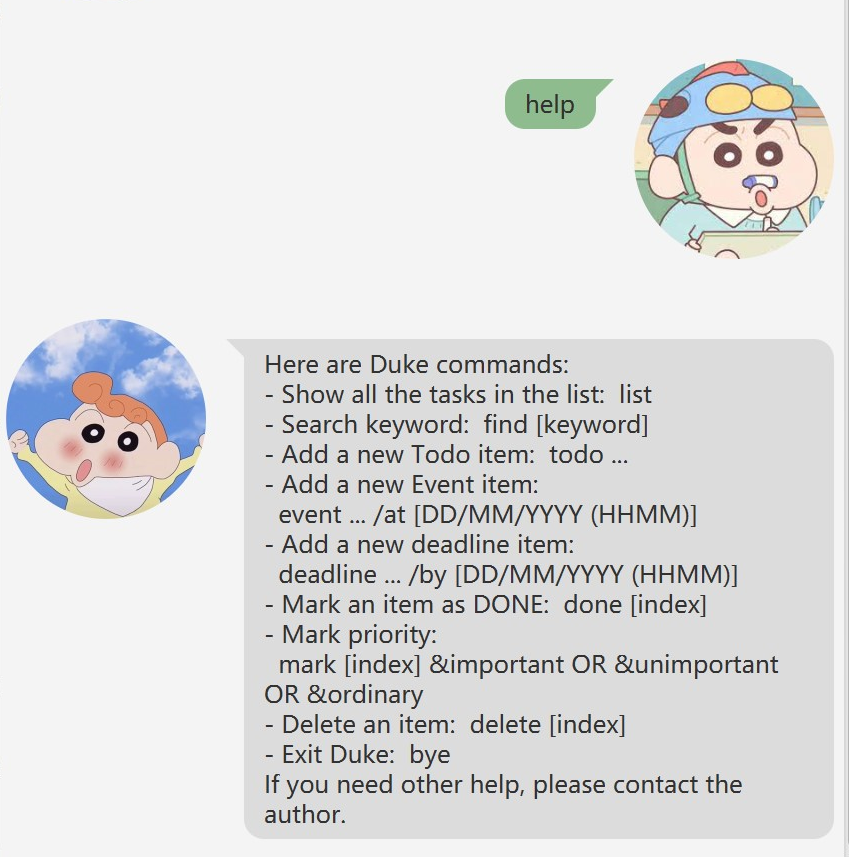
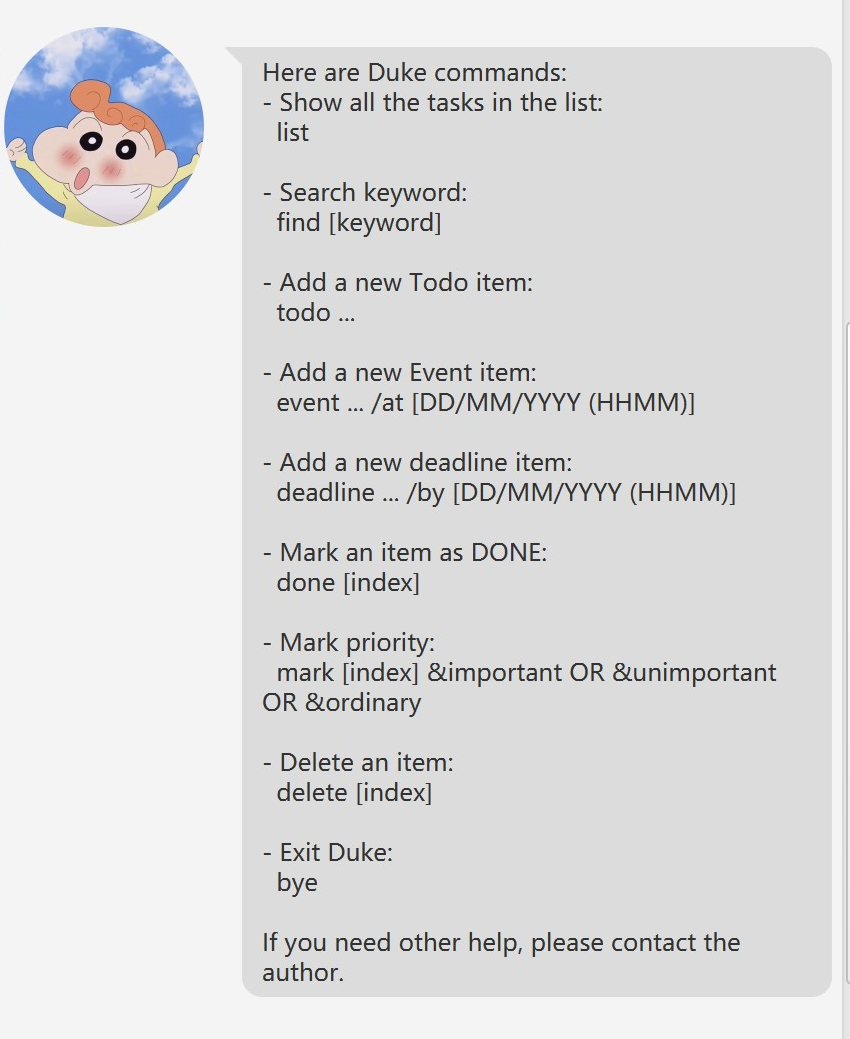
Improve GUI

Changed region(s): [[0.2756, 0.0, 1.0, 1.0], [0.0, 0.3641, 0.245, 0.6068], [0.0, 0.0, 0.245, 0.2427]]

diff --git a/src/main/java/duke/util/Ui.java b/src/main/java/duke/util/Ui.java
@@ -14,7 +14,7 @@ public class Ui {
      */
     public String showWelcome() {
         String words1 = "Hello! This is Duke~\n";
-        String words2 = "What can I help you today?\n";
+        String words2 = "What can I help you today?\n\n";
         String words3 = "Type 'help' for more commands info.";
         return words1 + words2 + words3;
     }
@@ -102,24 +102,24 @@ public class Ui {
      */
     public String showHelp() {
         String manual = "Here are Duke commands:\n"
-                + "- Show all the tasks in the list:"
-                + "  list\n"
-                + "- Search keyword:"
-                + "  find [keyword]\n"
-                + "- Add a new Todo item:"
-                + "  todo ...\n"
+                + "- Show all the tasks in the list:\n"
+                + "  list\n\n"
+                + "- Search keyword:\n"
+                + "  find [keyword]\n\n"
+                + "- Add a new Todo item:\n"
+                + "  todo ...\n\n"
                 + "- Add a new Event item:\n"
-                + "  event ... /at [DD/MM/YYYY (HHMM)]\n"
+                + "  event ... /at [DD/MM/YYYY (HHMM)]\n\n"
                 + "- Add a new deadline item:\n"
-                + "  deadline ... /by [DD/MM/YYYY (HHMM)]\n"
-                + "- Mark an item as DONE:"
-                + "  done [index]\n"
+                + "  deadline ... /by [DD/MM/YYYY (HHMM)]\n\n"
+                + "- Mark an item as DONE:\n"
+                + "  done [index]\n\n"
                 + "- Mark priority:\n"
-                + "  mark [index] &important OR &unimportant OR &ordinary\n"
-                + "- Delete an item:"
-                + "  delete [index]\n"
-                + "- Exit Duke:"
-                + "  bye\n";
+                + "  mark [index] &important OR &unimportant OR &ordinary\n\n"
+                + "- Delete an item:\n"
+                + "  delete [index]\n\n"
+                + "- Exit Duke:\n"
+                + "  bye\n\n";
         String other = "If you need other help, please contact the author.";
         return manual + other;
     }

diff --git a/src/test/java/duke/util/StorageTest.java b/src/test/java/duke/util/StorageTest.java
@@ -1,0 +1,77 @@
+package duke.util;
+
+import static org.junit.jupiter.api.Assertions.assertTrue;
+import static org.junit.jupiter.api.Assertions.fail;
+
+import org.junit.jupiter.api.Test;
+
+import duke.task.Deadline;
+import duke.task.Event;
+import duke.task.Task;
+import duke.task.Todo;
+
+
+class StorageTest {
+
+    @Test
+    void readData_success() {
+        try {
+            Storage dukeDB = new Storage("data/duke.txt");
+            dukeDB.readData();
+        } catch (Exception e) {
+            fail("there is error on readData");
+        }
+    }
+
+    @Test
+    void addData_success() {
+        try {
+            Storage dukeDB = new Storage("data/duke.txt");
+            Task ddl = new Deadline("return book", "2/2/2019 1800");
+            Task todo = new Todo("buy milk");
+            Task event = new Event("meeting", "2/12/2020");
+            dukeDB.addData(ddl);
+            dukeDB.addData(todo);
+            dukeDB.addData(event);
+        } catch (Exception e) {
+            fail("there is error on addData");
+        }
+    }
+
+    @Test
+    void addData_invalidInput_errorThrow() {
+        try {
+            Storage dukeDB = new Storage("data/duke.txt");
+            Task fakeTask = null;
+            dukeDB.addData(fakeTask);
+
+            fail();
+        } catch (Exception e) {
+            assertTrue(e.getMessage().contains(""));
+        }
+    }
+
+    @Test
+    void doneData_success() {
+        try {
+            Storage dukeDB = new Storage("data/test.txt");
+            Task newTask = new Todo("buy apples");
+            dukeDB.addData(newTask);
+            dukeDB.doneData(1);
+        } catch (Exception e) {
+            fail("there is error on doneData");
+        }
+    }
+
+    @Test
+    void deleteData_success() {
+        try {
+            Storage dukeDB = new Storage("data/test.txt");
+            Task newTask = new Todo("buy bananas");
+            dukeDB.addData(newTask);
+            dukeDB.deleteData(1);
+        } catch (Exception e) {
+            fail("there is error on doneData");
+        }
+    }
+}

diff --git a/src/main/java/duke/gui/TextBox.java b/src/main/java/duke/gui/TextBox.java
@@ -15,7 +15,6 @@ import javafx.scene.layout.VBox;
 import javafx.scene.paint.Color;
 import javafx.scene.shape.Rectangle;
 import javafx.scene.shape.SVGPath;
-import javafx.scene.text.Font;
 
 /**
  * A JavaFX node representing a text box as is usually seen in apps like Telegram and Messenger.
@@ -51,7 +50,6 @@ public class TextBox extends VBox {
         textLabel.setWrapText(true);
         textLabel.setBackground(getDefaultBackground(left));
         textLabel.setPadding(getDefaultPadding());
-        textLabel.setFont(Font.font("Times New Roman", 13));
 
         //Adds a small triangle to the appropriate side to mimic a text box
         HBox hBox = new HBox();
@@ -78,9 +76,9 @@ public class TextBox extends VBox {
         String[] strings = textLabel.getText().split("\n");
         lineNum += strings.length + 1;
         for (String str : strings) {
-            lineNum += str.length() / 32;
+            lineNum += str.length() / 45;
         }
-        this.setMinHeight(lineNum * 15 + 30);
+        this.setMinHeight(lineNum * 15.5);
     }
 
     /** Returns a background to fill up the text box with a colour and shape */

diff --git a/src/main/java/duke/Launcher.java b/src/main/java/duke/Launcher.java
@@ -1,3 +1,4 @@
+// Solution below are adapted from https://se-education.org/guides/tutorials/javaFx.html
 package duke;
 
 import javafx.application.Application;

diff --git a/src/main/java/duke/Main.java b/src/main/java/duke/Main.java
@@ -1,3 +1,4 @@
+// Solution below are adapted from https://se-education.org/guides/tutorials/javaFx.html
 package duke;
 
 import java.io.IOException;

diff --git a/docs/README.md b/docs/README.md
@@ -27,9 +27,8 @@ Note the following about command format:
 4. Fields in square brackets such as `[&important OR &unimportant OR &ordinary]` are for you to choose one as input.
 ### Viewing help: `help`
 
-Shows a message explaning all commands used to execute the app.
-
-<img src="img_1.png" alt="sample" width="300"/>
+Shows a message explaining all commands used to execute the app.
+<img src="img_1.png" alt="sample" width="350"/>
 
 Format: `help`
 
